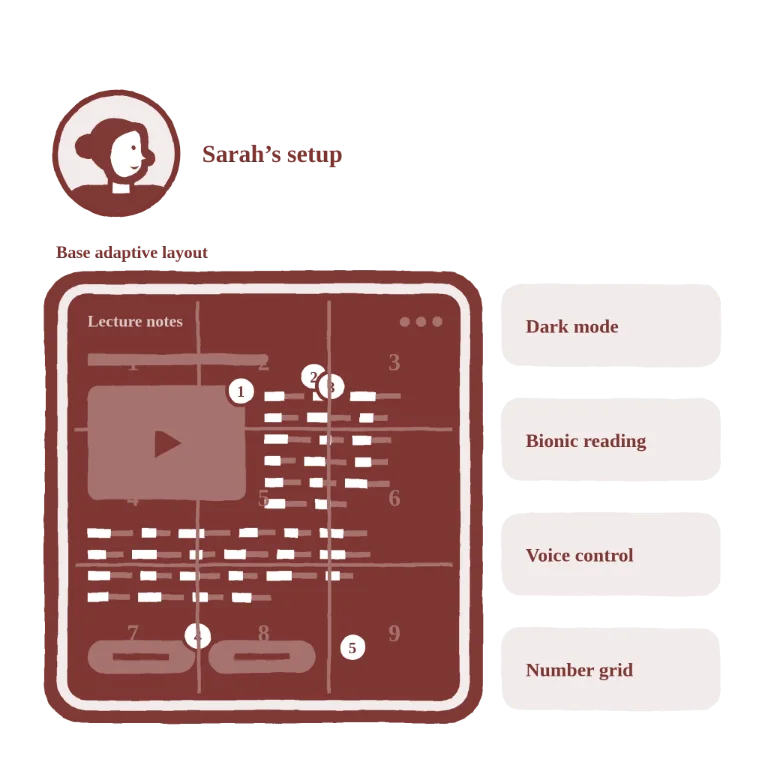
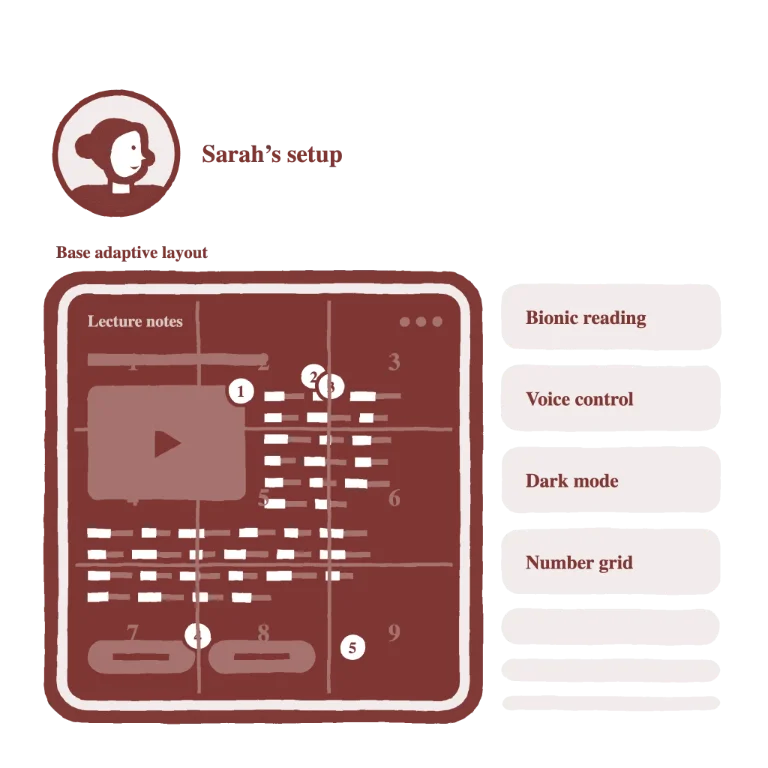
Reorder Today's model, and trail off into endless more preferences
The extensions land as bionic reading, voice control, dark mode, then the
number grid, with empty boxes below them, each shorter than the last, on a
beat of their own. Bionic reading now lands on the light page, so it's
drawn dark; dark mode slides in under the badges and brings its own bright
bolding, so the last frame is as before. The alt text follows.

🤖 Generated with [Claude Code](https://claude.com/claude-code)

diff --git a/js/site.js b/js/site.js
@@ -32,13 +32,14 @@ function fadeInStep(piece) {
 
 // Today's model, as Sarah lives it: her browser arrives with the page as it
 // was built, then each of her extensions in turn: its box slides in beside
-// the browser as its layer is laid on the page (dark mode, bionic reading,
-// voice control's numbers, its number grid). On the last beat the layers
-// jostle and slip out of register with the page and with each other, none
+// the browser as its layer is laid on the page (bionic reading, voice
+// control's numbers, dark mode, voice control's number grid). Then empty
+// boxes below them, for every preference still to come. On the last beat the
+// layers jostle and slip out of register with the page and with each other, none
 // aware of the rest, and the boxes go askew. Reduced motion keeps the beats
 // but fades each piece in place and shows the conflict without moving
 // anything.
-const TODAYS_MODEL_LAYERS = ['dark', 'bionic', 'numbers', 'grid'];
+const TODAYS_MODEL_LAYERS = ['bionic', 'numbers', 'dark', 'grid'];
 
 function todaysModelSteps(scene) {
 	const art = scene.querySelector('svg.todays-model-illustration');
@@ -59,29 +60,34 @@ function todaysModelSteps(scene) {
 		tl.fromTo(boxes[i], { opacity: 0, x: 80 }, { opacity: 1, x: 0, duration: hold * 0.4, ease: 'power2.out' });
 		tl.fromTo(layers[i], { opacity: 0, y: -24 }, { opacity: 1, y: 0, duration: hold * 0.4, ease: 'power2.out' }, '<0.05');
 	};
+	// the empty boxes, after the last extension's
+	const more = (tl, hold) => {
+		if (reduceMotion) return fade(tl, part('more-box'), hold);
+		tl.fromTo(part('more-box'), { opacity: 0, x: 80 }, { opacity: 1, x: 0, duration: hold * 0.4, ease: 'power2.out' });
+	};
 
 	// where each layer settles once they've slipped, and how far each box
 	// goes askew: never so far a box lands on its neighbour
-	const SLIPS = [
-		{ x: -18, y: 8, rotation: -0.6 },
-		{ x: 10, y: -5, rotation: 0.4 },
-		{ x: 22, y: -12, rotation: 0 },
-		{ x: -14, y: 12, rotation: 1 },
-	];
+	const SLIPS = {
+		dark: { x: -18, y: 8, rotation: -0.6 },
+		bionic: { x: 10, y: -5, rotation: 0.4 },
+		numbers: { x: 22, y: -12, rotation: 0 },
+		grid: { x: -14, y: 12, rotation: 1 },
+	};
 	const ASKEW = [-1.2, 1, -0.8, 1.6];
 	const conflict = (tl, hold) => {
 		tl.fromTo(scene.querySelector('[data-piece="conflict"]'), { opacity: 0 }, { opacity: 1, duration: hold * 0.2, ease: 'none' });
 		if (reduceMotion) return;
 		tl.to([...layers, ...boxes], { x: (i) => (i % 2 ? 6 : -6), duration: hold * 0.05, ease: 'sine.inOut', yoyo: true, repeat: 3 }, '<');
 		layers.forEach((layer, i) =>
-			tl.to(layer, { ...SLIPS[i], transformOrigin: '50% 50%', duration: hold * 0.3, ease: 'power2.out' }, i ? '<' : undefined),
+			tl.to(layer, { ...SLIPS[TODAYS_MODEL_LAYERS[i]], transformOrigin: '50% 50%', duration: hold * 0.3, ease: 'power2.out' }, i ? '<' : undefined),
 		);
 		boxes.forEach((box, i) =>
 			tl.to(box, { x: i % 2 ? 14 : -10, rotation: ASKEW[i], transformOrigin: '50% 50%', duration: hold * 0.3, ease: 'power2.out' }, '<'),
 		);
 	};
 
-	return [base, ...TODAYS_MODEL_LAYERS.map((_, i) => extension(i)), conflict];
+	return [base, ...TODAYS_MODEL_LAYERS.map((_, i) => extension(i)), more, conflict];
 }
 
 // The branching demo: a stack of boxes per person, side by side, built on the

diff --git a/index.html b/index.html
@@ -493,7 +493,7 @@
 									src="media/personas/todays-model.webp"
 									srcset="media/personas/todays-model-768.webp 768w, media/personas/todays-model-1280.webp 1280w, media/personas/todays-model.webp 2048w"
 									sizes="(max-width: 699px) 50vw, min(42vw, 70vh)"
-									alt="Sarah’s setup: her browser showing a lecture page, with four extensions laid on it, each a separate layer. A dark mode plugin darkens the page, bionic reading bolds the first half of every word, voice control’s number badges land off their targets, and its number grid is lost dark on dark. The layers start to conflict." width="2048" height="2048"
+									alt="Sarah’s setup: her browser showing a lecture page, with four extensions laid on it, each a separate layer. Bionic reading bolds the first half of every word, voice control’s number badges land off their targets, a dark mode plugin darkens the page under them, and voice control’s number grid is lost dark on dark. Empty layers below them wait for every preference still to come. The layers start to conflict." width="2048" height="2048"
 								/>
 							</div>
 						</div>
